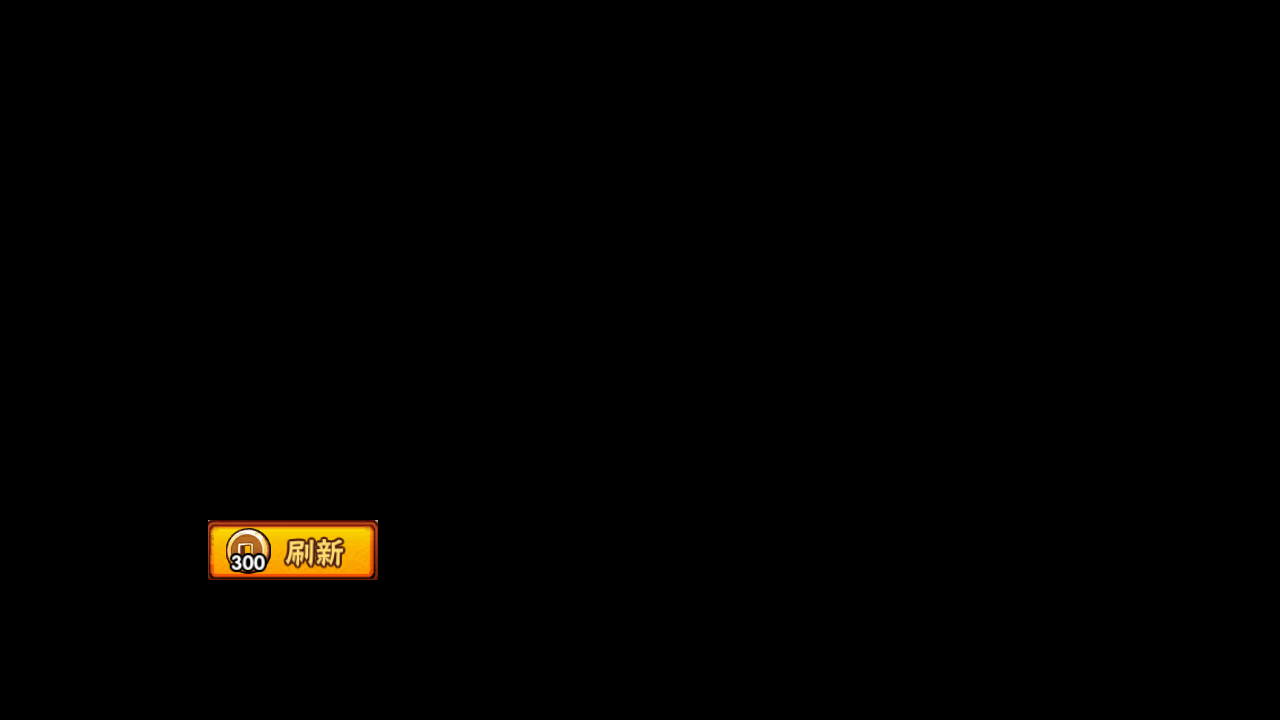
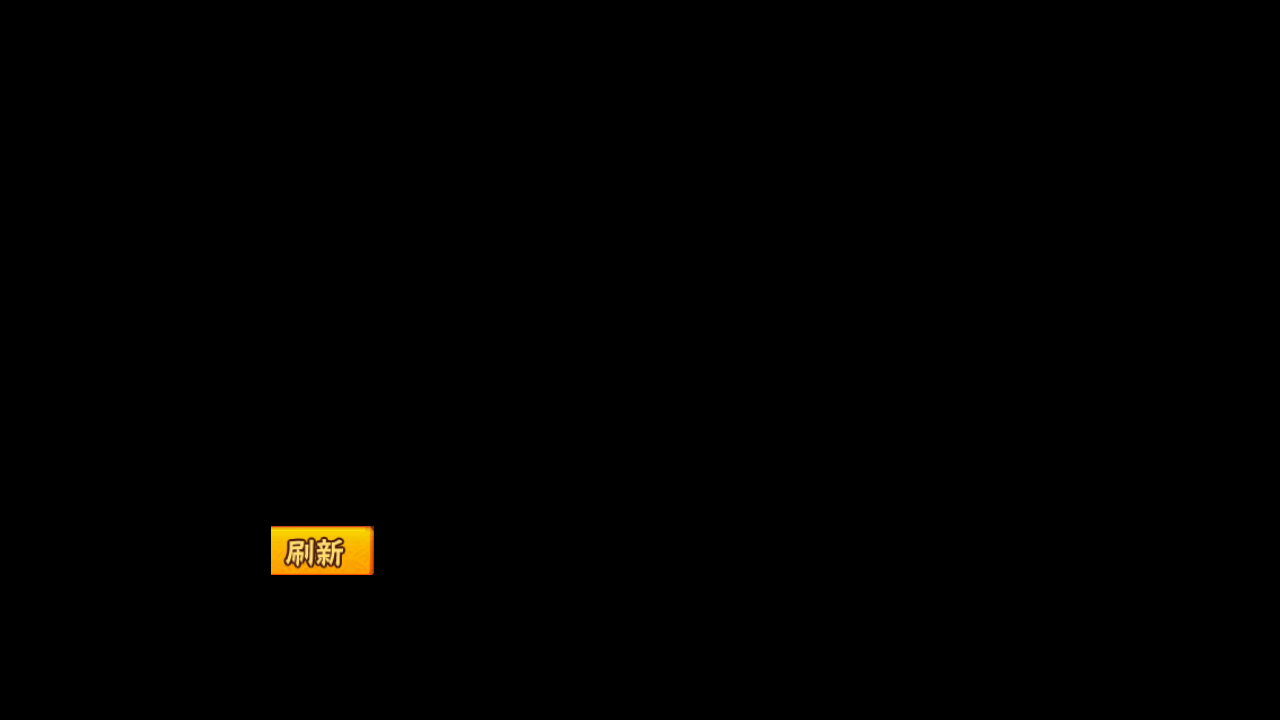
feat(ji_fen_sai): update asset coordinates and add new fight end confirm image

Changed region(s): [[0.1562, 0.7028, 0.3125, 0.825]]

diff --git a/tasks/ji_fen_sai/assets/assets_ji_fen_sai.py b/tasks/ji_fen_sai/assets/assets_ji_fen_sai.py
@@ -51,10 +51,10 @@ ENEMY_REFRESH = ButtonWrapper(
     name='ENEMY_REFRESH',
     cn=Button(
         file='./assets/cn/ji_fen_sai/ENEMY_REFRESH.png',
-        area=(208, 520, 378, 580),
-        search=(188, 500, 398, 600),
-        color=(192, 126, 27),
-        button=(208, 520, 378, 580),
+        area=(271, 526, 374, 575),
+        search=(251, 506, 394, 595),
+        color=(221, 156, 21),
+        button=(271, 526, 374, 575),
     ),
     en=None,
 )
@@ -114,6 +114,13 @@ JI_FEN_SAI_FIGHT_END_CONFIRM = ButtonWrapper(
             search=(403, 575, 635, 678),
             color=(232, 162, 11),
             button=(423, 595, 615, 658),
+        ),
+        Button(
+            file='./assets/cn/ji_fen_sai/JI_FEN_SAI_FIGHT_END_CONFIRM.4.png',
+            area=(432, 147, 857, 213),
+            search=(412, 127, 877, 233),
+            color=(61, 73, 97),
+            button=(432, 147, 857, 213),
         ),
     ],
     en=None,
